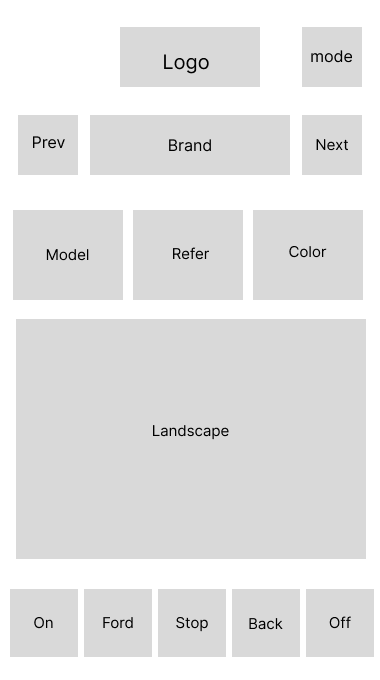
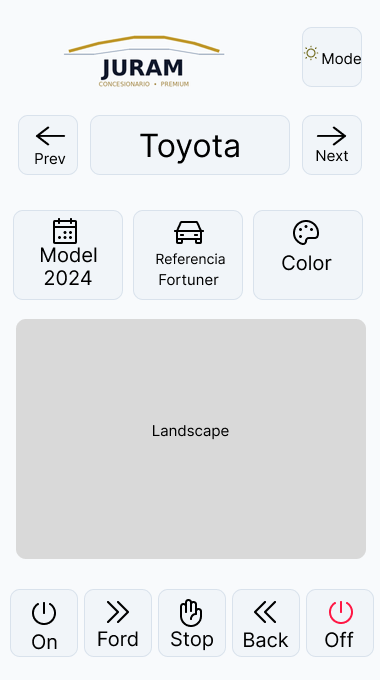
07 Vehicle Object

diff --git a/04-js/07-vehicle-object.html b/04-js/07-vehicle-object.html
@@ -21,7 +21,11 @@
             <h2>Crea y manipula un objeto vehículo con propiedades.</h2>
         </header>
         <section>
+            <iframe style="border: 1px solid rgba(0, 0, 0, 0.1);" width="100%" height="450"
+                src="https://embed.figma.com/design/YGaxrTbKUTqctTyistN3yX/JS-Class-Vehicle?node-id=0-1&embed-host=share"
+                allowfullscreen></iframe>
         </section>
     </main>
 </body>
+
 </html>
